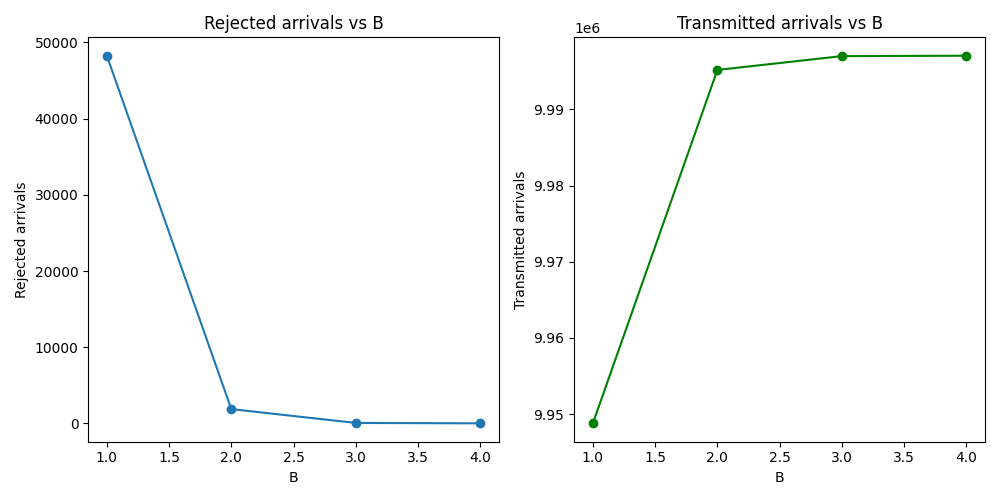
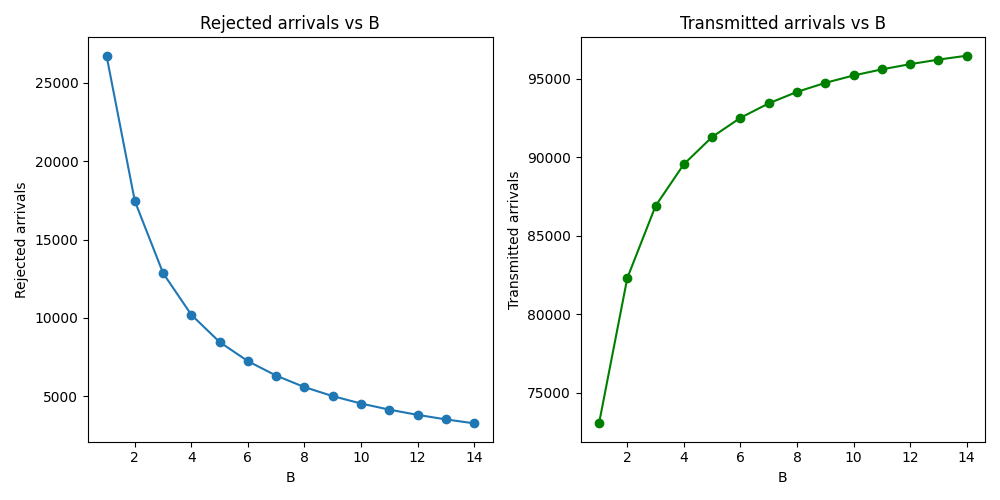
using packet_arrival_rate of 1000 for q1a instead of 100 so that B sweep can be finer grain, reduced run length

diff --git a/q1a.py b/q1a.py
@@ -7,8 +7,8 @@ import os
 # -----------------------------
 # Configuration
 # -----------------------------
-RERUN = False           # True: sweep B, compile/run; False: just plot from CSV
-B_values = range(1, 5) # Sweep B from 1 to 4 inclusive
+RERUN = True           # True: sweep B, compile/run; False: just plot from CSV
+B_values = range(1, 15) # Sweep B from 1 to 4 inclusive
 CSV_FILE = "q1a.csv"
 EXECUTABLE = "./run"
 SOURCE_WILDCARD = "*.c"
@@ -21,7 +21,7 @@ TRANSMITTED_PATTERN = re.compile(r"Transmitted arrival count\s*=\s*([\d\.]+)")
 # Function to compile with given B
 # -----------------------------
 def compile_program(B):
-    cmd = f"gcc -O2 -Wall -DB={B} {SOURCE_WILDCARD} -o {EXECUTABLE} -lm"
+    cmd = f"gcc -O2 -Wall -DB={B} -DPACKET_ARRIVAL_RATE=1000 {SOURCE_WILDCARD} -o {EXECUTABLE} -lm"
     print(f"Compiling with B={B}...")
     subprocess.run(cmd, shell=True, check=True)
 

diff --git a/simparameters.h b/simparameters.h
@@ -28,14 +28,16 @@
 
 /******************************************************************************/
 
+#ifndef PACKET_ARRIVAL_RATE
 #define PACKET_ARRIVAL_RATE 100 /* packets per second */
+#endif
 
 // #define PACKET_LENGTH 1e3 /* bits */
 #ifndef LINK_BIT_RATE
 #define LINK_BIT_RATE 1000 /* packets per second */
 #endif
 // #define RUNLENGTH 10e6 /* packets */
-#define RUNLENGTH_TIME 100000
+#define RUNLENGTH_TIME 100
 
 #ifndef B
 #define B 3

diff --git a/q1b.py b/q1b.py
@@ -12,7 +12,7 @@ LINK_BIT_RATES = range(20, 401, 20)  # From 100 to 2000 inclusive
 CSV_FILE = "q1b.csv"
 EXECUTABLE = "./run"
 SOURCE_WILDCARD = "*.c"
-RUN_LENGTH = 100000
+RUN_LENGTH = 100
 
 # Regex patterns to parse output
 REJECTED_PATTERN = re.compile(r"Rejected arrival count\s*=\s*([\d\.]+)")
